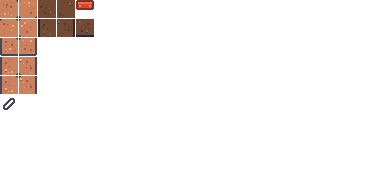
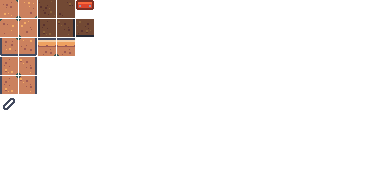
Add new desert tile variant and improve level 10

Changed region(s): [[0.0871, 0.2059, 0.2032, 0.3529]]

diff --git a/src/Assets/TileSets/pixel-platformer-customized.tsx b/src/Assets/TileSets/pixel-platformer-customized.tsx
@@ -73,6 +73,18 @@
    <property name="TileType" propertytype="TileType" value="Geometry"/>
   </properties>
  </tile>
+ <tile id="42" type="WorldTile">
+  <properties>
+   <property name="AssetId" value="a38c78f1-404d-45c6-bc13-838b347385e5"/>
+   <property name="TileType" propertytype="TileType" value="Geometry"/>
+  </properties>
+ </tile>
+ <tile id="43" type="WorldTile">
+  <properties>
+   <property name="AssetId" value="d3121e09-a453-453f-9981-addf0c740745"/>
+   <property name="TileType" propertytype="TileType" value="Geometry"/>
+  </properties>
+ </tile>
  <tile id="60" type="WorldTile">
   <properties>
    <property name="AssetId" value="1f1808b6-45d0-4cae-b73a-9b0e890c759f"/>
